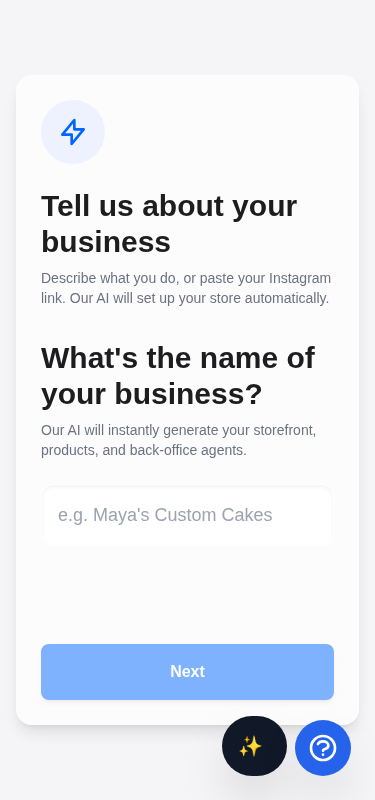
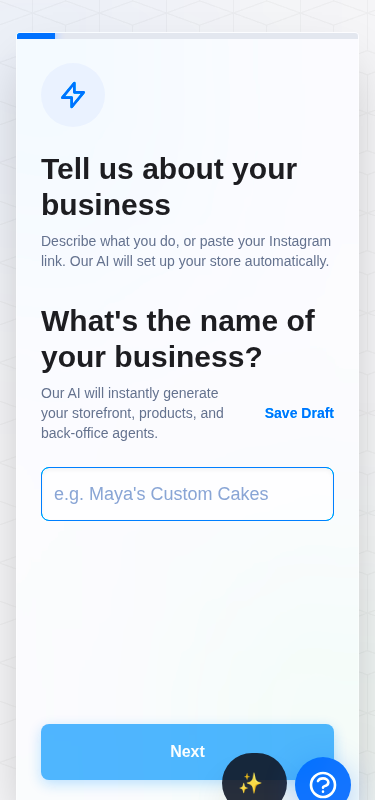
Update tests and improve onboarding UX

diff --git a/src/ui/next/src/app/onboarding/page.tsx b/src/ui/next/src/app/onboarding/page.tsx
@@ -261,7 +261,7 @@ export default function OnboardingWizard() {
       <div className="fixed top-[-10%] left-[-10%] w-[40%] h-[40%] bg-[#0066FF]/10 blur-[120px] rounded-full pointer-events-none"></div>
       <div className="fixed bottom-[-10%] right-[-10%] w-[40%] h-[40%] bg-[#34C759]/10 blur-[120px] rounded-full pointer-events-none"></div>
 
-      <div id="setup-screen" className="w-full sm:max-w-[414px] mx-auto mac-glass-container sm:rounded-[16px] shadow-2xl overflow-hidden flex flex-col h-[100dvh] sm:h-[700px] relative border border-white/40 dark:border-white/10 transition-all duration-500">
+      <div id="setup-screen" className="w-full sm:max-w-[414px] mx-auto mac-glass-container backdrop-blur-[20px] saturate-[200%] bg-white/70 sm:rounded-[16px] shadow-2xl overflow-hidden flex flex-col h-[100dvh] sm:h-[700px] relative border border-white/40 dark:border-white/10 transition-all duration-500">
         {/* Progress Bar */}
         <div className="h-1.5 w-full bg-gray-200 dark:bg-white/5 overflow-hidden">
           <div
@@ -325,7 +325,7 @@ export default function OnboardingWizard() {
                           }
                         }}
                         placeholder="e.g. Maya's Custom Cakes"
-                        className="w-full p-3 sm:p-4 rounded-[8px] border border-white/50 dark:border-white/10 focus:border-[#0066FF] outline-none mac-glass-container text-[#1D1D1F] dark:text-[#F5F5F7] text-lg transition-all shadow-inner"
+                        className="w-full p-3 sm:p-4 rounded-[8px] border border-white/50 dark:border-white/10 focus:border-[#0066FF] outline-none mac-glass-container backdrop-blur-[20px] saturate-[200%] bg-white/70 text-[#1D1D1F] dark:text-[#F5F5F7] text-lg transition-all shadow-inner"
                       />
                     </div>
                   </div>
@@ -385,7 +385,7 @@ export default function OnboardingWizard() {
                           }
                         }}
                         placeholder="e.g. I bake custom vegan cakes for weddings and parties..."
-                        className="w-full p-3 sm:p-4 rounded-[8px] border border-white/50 dark:border-white/10 focus:border-[#0066FF] focus:ring-2 focus:ring-[#0066FF]/30 outline-none mac-glass-container text-[#1D1D1F] dark:text-[#F5F5F7] h-32 resize-none transition-all shadow-inner"
+                        className="w-full p-3 sm:p-4 rounded-[8px] border border-white/50 dark:border-white/10 focus:border-[#0066FF] focus:ring-2 focus:ring-[#0066FF]/30 outline-none mac-glass-container backdrop-blur-[20px] saturate-[200%] bg-white/70 text-[#1D1D1F] dark:text-[#F5F5F7] h-32 resize-none transition-all shadow-inner"
                       />
                     </div>
                   </div>
@@ -437,7 +437,7 @@ export default function OnboardingWizard() {
                           }
                         }}
                         placeholder="e.g. Portland, OR"
-                        className="w-full p-3 sm:p-4 rounded-[8px] border border-white/50 dark:border-white/10 focus:border-[#0066FF] outline-none mac-glass-container text-[#1D1D1F] dark:text-[#F5F5F7] text-lg transition-all shadow-inner"
+                        className="w-full p-3 sm:p-4 rounded-[8px] border border-white/50 dark:border-white/10 focus:border-[#0066FF] outline-none mac-glass-container backdrop-blur-[20px] saturate-[200%] bg-white/70 text-[#1D1D1F] dark:text-[#F5F5F7] text-lg transition-all shadow-inner"
                       />
                     </div>
                   </div>
@@ -502,7 +502,7 @@ export default function OnboardingWizard() {
                         setValidationErrors(prev => { const { businessName, ...rest } = prev; return rest; });
                       }
                     }}
-                    className={`w-full p-3 sm:p-4 rounded-[8px] border ${validationErrors.businessName ? 'border-red-500' : 'border-white/50 dark:border-white/10 focus:border-[#0066FF]'} outline-none mac-glass-container text-[#1D1D1F] dark:text-[#F5F5F7]`}
+                    className={`w-full p-3 sm:p-4 rounded-[8px] border ${validationErrors.businessName ? 'border-red-500' : 'border-white/50 dark:border-white/10 focus:border-[#0066FF]'} outline-none mac-glass-container backdrop-blur-[20px] saturate-[200%] bg-white/70 text-[#1D1D1F] dark:text-[#F5F5F7]`}
                   />
                   {validationErrors.businessName && <p className="text-red-500 text-xs mt-1">{validationErrors.businessName}</p>}
                 </div>
@@ -519,7 +519,7 @@ export default function OnboardingWizard() {
                         setValidationErrors(prev => { const { businessType, ...rest } = prev; return rest; });
                       }
                     }}
-                    className={`w-full p-3 sm:p-4 rounded-[8px] border ${validationErrors.businessType ? 'border-red-500' : 'border-white/50 dark:border-white/10 focus:border-[#0066FF]'} outline-none mac-glass-container text-[#1D1D1F] dark:text-[#F5F5F7]`}
+                    className={`w-full p-3 sm:p-4 rounded-[8px] border ${validationErrors.businessType ? 'border-red-500' : 'border-white/50 dark:border-white/10 focus:border-[#0066FF]'} outline-none mac-glass-container backdrop-blur-[20px] saturate-[200%] bg-white/70 text-[#1D1D1F] dark:text-[#F5F5F7]`}
                   />
                   {validationErrors.businessType && <p className="text-red-500 text-xs mt-1">{validationErrors.businessType}</p>}
                 </div>
@@ -529,7 +529,7 @@ export default function OnboardingWizard() {
                     type="text"
                     value={categories.join(', ')}
                     onChange={(e) => setCategories(e.target.value.split(',').map(c => c.trim()))}
-                    className="w-full p-3 sm:p-4 rounded-[8px] border border-white/50 dark:border-white/10 focus:border-[#0066FF] outline-none mac-glass-container text-[#1D1D1F] dark:text-[#F5F5F7]"
+                    className="w-full p-3 sm:p-4 rounded-[8px] border border-white/50 dark:border-white/10 focus:border-[#0066FF] outline-none mac-glass-container backdrop-blur-[20px] saturate-[200%] bg-white/70 text-[#1D1D1F] dark:text-[#F5F5F7]"
                   />
                 </div>
                 <div className="grid grid-cols-2 gap-2">
@@ -539,7 +539,7 @@ export default function OnboardingWizard() {
                         type="text"
                         value={firstProductName}
                         onChange={(e) => setFirstProductName(e.target.value)}
-                        className="w-full p-3 sm:p-4 rounded-[8px] border border-white/50 dark:border-white/10 focus:border-[#0066FF] outline-none mac-glass-container text-[#1D1D1F] dark:text-[#F5F5F7]"
+                        className="w-full p-3 sm:p-4 rounded-[8px] border border-white/50 dark:border-white/10 focus:border-[#0066FF] outline-none mac-glass-container backdrop-blur-[20px] saturate-[200%] bg-white/70 text-[#1D1D1F] dark:text-[#F5F5F7]"
                       />
                    </div>
                    <div>
@@ -558,7 +558,7 @@ export default function OnboardingWizard() {
                               setValidationErrors(prev => { const { firstProductPrice, ...rest } = prev; return rest; });
                            }
                         }}
-                        className={`w-full p-3 sm:p-4 rounded-[8px] border ${validationErrors.firstProductPrice ? 'border-red-500' : 'border-white/50 dark:border-white/10 focus:border-[#0066FF]'} outline-none mac-glass-container text-[#1D1D1F] dark:text-[#F5F5F7]`}
+                        className={`w-full p-3 sm:p-4 rounded-[8px] border ${validationErrors.firstProductPrice ? 'border-red-500' : 'border-white/50 dark:border-white/10 focus:border-[#0066FF]'} outline-none mac-glass-container backdrop-blur-[20px] saturate-[200%] bg-white/70 text-[#1D1D1F] dark:text-[#F5F5F7]`}
                       />
                       {validationErrors.firstProductPrice && <p className="text-red-500 text-xs mt-1">{validationErrors.firstProductPrice}</p>}
                    </div>
@@ -613,7 +613,7 @@ export default function OnboardingWizard() {
                       <div
                         key={template}
                         onClick={() => setWebsiteTemplate(template)}
-                        className={`p-3 rounded-[8px] border cursor-pointer transition-all ${websiteTemplate === template ? 'border-[#0066FF] bg-[#0066FF]/10 text-[#0066FF]' : 'border-white/50 dark:border-white/10 mac-glass-container hover:border-gray-400 dark:hover:border-gray-500 text-[#1D1D1F] dark:text-white'}`}
+                        className={`p-3 rounded-[8px] border cursor-pointer transition-all ${websiteTemplate === template ? 'border-[#0066FF] bg-[#0066FF]/10 text-[#0066FF]' : 'border-white/50 dark:border-white/10 mac-glass-container backdrop-blur-[20px] saturate-[200%] bg-white/70 hover:border-gray-400 dark:hover:border-gray-500 text-[#1D1D1F] dark:text-white'}`}
                       >
                         <div className="font-semibold text-sm">{template}</div>
                       </div>
@@ -626,14 +626,14 @@ export default function OnboardingWizard() {
                   <div className="grid grid-cols-2 gap-3 mb-2">
                     <div
                       onClick={() => setDomainChoice('subdomain')}
-                      className={`p-3 rounded-[8px] border cursor-pointer transition-all flex flex-col items-center justify-center text-center ${domainChoice === 'subdomain' ? 'border-[#0066FF] bg-[#0066FF]/10 text-[#0066FF]' : 'border-white/50 dark:border-white/10 mac-glass-container text-[#1D1D1F] dark:text-white hover:border-gray-400 dark:hover:border-gray-500'}`}
+                      className={`p-3 rounded-[8px] border cursor-pointer transition-all flex flex-col items-center justify-center text-center ${domainChoice === 'subdomain' ? 'border-[#0066FF] bg-[#0066FF]/10 text-[#0066FF]' : 'border-white/50 dark:border-white/10 mac-glass-container backdrop-blur-[20px] saturate-[200%] bg-white/70 text-[#1D1D1F] dark:text-white hover:border-gray-400 dark:hover:border-gray-500'}`}
                     >
                       <span className="font-semibold text-sm mb-1">Free Subdomain</span>
                       <span className="text-[10px] opacity-70">your-name.ohc.store</span>
                     </div>
                     <div
                       onClick={() => setDomainChoice('custom')}
-                      className={`p-3 rounded-[8px] border cursor-pointer transition-all flex flex-col items-center justify-center text-center ${domainChoice === 'custom' ? 'border-[#0066FF] bg-[#0066FF]/10 text-[#0066FF]' : 'border-white/50 dark:border-white/10 mac-glass-container text-[#1D1D1F] dark:text-white hover:border-gray-400 dark:hover:border-gray-500'}`}
+                      className={`p-3 rounded-[8px] border cursor-pointer transition-all flex flex-col items-center justify-center text-center ${domainChoice === 'custom' ? 'border-[#0066FF] bg-[#0066FF]/10 text-[#0066FF]' : 'border-white/50 dark:border-white/10 mac-glass-container backdrop-blur-[20px] saturate-[200%] bg-white/70 text-[#1D1D1F] dark:text-white hover:border-gray-400 dark:hover:border-gray-500'}`}
                     >
                       <span className="font-semibold text-sm mb-1">Custom Domain</span>
                       <span className="text-[10px] opacity-70">your-name.com</span>
@@ -656,7 +656,7 @@ export default function OnboardingWizard() {
                                setAiAgents([...aiAgents, agent]);
                              }
                            }}
-                           className={`p-3 rounded-[8px] border cursor-pointer flex items-center justify-between transition-all ${isSelected ? 'border-[#0066FF] bg-[#0066FF]/10 text-[#0066FF]' : 'border-white/50 dark:border-white/10 mac-glass-container text-[#1D1D1F] dark:text-white'}`}
+                           className={`p-3 rounded-[8px] border cursor-pointer flex items-center justify-between transition-all ${isSelected ? 'border-[#0066FF] bg-[#0066FF]/10 text-[#0066FF]' : 'border-white/50 dark:border-white/10 mac-glass-container backdrop-blur-[20px] saturate-[200%] bg-white/70 text-[#1D1D1F] dark:text-white'}`}
                          >
                            <span className="font-semibold text-sm">{agent}</span>
                            <div className={`w-4 h-4 rounded-full border flex items-center justify-center ${isSelected ? 'border-[#0066FF] bg-[#0066FF]' : 'border-gray-400'}`}>
@@ -669,7 +669,7 @@ export default function OnboardingWizard() {
                 </div>
 
                 <div className="pt-2">
-                  <label className="flex items-center justify-between cursor-pointer p-3 rounded-[8px] border border-white/50 dark:border-white/10 mac-glass-container text-[#1D1D1F] dark:text-white">
+                  <label className="flex items-center justify-between cursor-pointer p-3 rounded-[8px] border border-white/50 dark:border-white/10 mac-glass-container backdrop-blur-[20px] saturate-[200%] bg-white/70 text-[#1D1D1F] dark:text-white">
                     <span className="font-semibold text-sm">Allow AI to Auto-Respond</span>
                     <input
                       type="checkbox"
@@ -733,7 +733,7 @@ export default function OnboardingWizard() {
               </p>
 
               <div className="w-full space-y-3 mt-auto">
-                <div className="p-3 mac-glass-container rounded-[8px] border border-white/50 dark:border-white/10 flex flex-col items-center mb-6">
+                <div className="p-3 mac-glass-container backdrop-blur-[20px] saturate-[200%] bg-white/70 rounded-[8px] border border-white/50 dark:border-white/10 flex flex-col items-center mb-6">
                    <p className="text-xs text-gray-500 dark:text-[#A1A1A6] uppercase font-bold tracking-wider mb-2">Your Shareable Link</p>
                    <div className="flex items-center gap-2">
                       <span className="text-[#0066FF] font-semibold">my-business.ohc.store</span>
@@ -748,7 +748,7 @@ export default function OnboardingWizard() {
                 </a>
                 <a
                   href="/builder"
-                  className="block w-full mac-glass-container text-[#1D1D1F] dark:text-[#F5F5F7] border border-white/50 dark:border-white/10 p-4 rounded-[8px] font-bold shadow-sm  active:scale-[0.98] transition-all duration-250 ease-[cubic-bezier(0.4,0,0.2,1)]"
+                  className="block w-full mac-glass-container backdrop-blur-[20px] saturate-[200%] bg-white/70 text-[#1D1D1F] dark:text-[#F5F5F7] border border-white/50 dark:border-white/10 p-4 rounded-[8px] font-bold shadow-sm  active:scale-[0.98] transition-all duration-250 ease-[cubic-bezier(0.4,0,0.2,1)]"
                 >
                   Preview Storefront
                 </a>

diff --git a/src/ui/next/src/app/storefront-builder/page.tsx b/src/ui/next/src/app/storefront-builder/page.tsx
@@ -184,7 +184,7 @@ export default function StorefrontBuilderPage() {
   if (status === "idle") {
     return (
       <div className="flex flex-col items-center justify-center h-screen bg-gray-50 font-inter">
-        <div id="setup-screen" className="w-full max-w-[375px] mx-auto min-h-[100dvh] sm:min-h-[812px] shadow-2xl flex flex-col relative rounded-[16px] overflow-hidden mac-glass-container">
+        <div id="setup-screen" className="builder-block w-full max-w-[375px] mx-auto min-h-[100dvh] sm:min-h-[812px] shadow-2xl flex flex-col relative rounded-[16px] overflow-hidden mac-glass-container">
 
           <div className="px-8 pb-8 pt-12 flex flex-col flex-1 justify-start overflow-y-auto">
             <div className="animate-fade-in" style={{ animation: 'fadeIn 250ms cubic-bezier(0.4, 0, 0.2, 1)' }}>
@@ -280,13 +280,13 @@ export default function StorefrontBuilderPage() {
 
   return (
     <div className="flex flex-col items-center justify-center h-screen bg-gray-50 font-inter">
-      <div className="w-full max-w-[375px] mx-auto min-h-[100dvh] sm:min-h-[812px] shadow-2xl flex flex-col relative rounded-[16px] overflow-hidden mac-glass-container">
+      <div className="builder-block w-full max-w-[375px] mx-auto min-h-[100dvh] sm:min-h-[812px] shadow-2xl flex flex-col relative rounded-[16px] overflow-hidden mac-glass-container">
         <div className="absolute top-0 left-0 w-full bg-black/80 backdrop-blur-md text-white text-xs py-2 text-center font-medium z-50 flex justify-between px-4 items-center">
           <span>Preview Mode</span>
           <span className="bg-white/20 px-2 py-0.5 rounded">375px</span>
         </div>
 
-        <div className="flex-1 overflow-y-auto pb-24 pt-8 hide-scrollbar">
+        <div className="flex-1 overflow-y-auto pb-24 pt-8 hide-scrollbar builder-block">
           {blocks.map((b, i) => (
             <DraggableBlock
               key={b.type + i}

diff --git a/src/ui/next/src/app/builder/components.tsx b/src/ui/next/src/app/builder/components.tsx
@@ -34,6 +34,7 @@ export function ActionSheet({ isOpen, onClose, title, children }: { isOpen: bool
 }
 
 export function DraggableBlock({
+  className,
   children,
   onDragStart,
   onDragOver,
@@ -44,6 +45,7 @@ export function DraggableBlock({
   isSelected,
   onClick
 }: {
+  className?: string;
   children: React.ReactNode;
   onDragStart: (e: React.TouchEvent | React.DragEvent) => void;
   onDragOver: (e: React.TouchEvent | React.DragEvent) => void;
@@ -57,7 +59,7 @@ export function DraggableBlock({
   return (
     <div
       draggable
-      className={`relative group transition-all duration-200 cursor-move ${isSelected ? 'ring-2 ring-blue-500 z-10 shadow-lg scale-[1.02]' : 'hover:ring-1 hover:ring-blue-300'}`}
+      className={`relative builder-block group transition-all duration-200 cursor-move ${isSelected ? 'ring-2 ring-blue-500 z-10 shadow-lg scale-[1.02]' : 'hover:ring-1 hover:ring-blue-300'}`}
       onDragStart={onDragStart as (e: React.DragEvent) => void}
       onDragOver={(e) => {
         e.preventDefault();
@@ -124,7 +126,7 @@ export function QRCode({ value }: { value: string }) {
 export function SmartBlock({ type, props }: { type: string; props: any }) {
   if (type === "Hero") {
     return (
-      <div className="relative w-full overflow-hidden bg-white/20 dark:bg-black/20 min-w-[375px]">
+      <div className="builder-block relative w-full overflow-hidden bg-white/20 dark:bg-black/20 min-w-[375px]">
         <div
           className="absolute inset-0 bg-cover bg-center opacity-90"
           style={{ backgroundImage: `url(${props.image})` }}

diff --git a/src/ui/next/src/app/agents/page.tsx b/src/ui/next/src/app/agents/page.tsx
@@ -192,9 +192,9 @@ export default function AgentsPage() {
           {activeTab === 'departments' ? (
             <div className="space-y-4">
               {departments.map((dept) => (
-                <div
+                <button
                   key={dept.id}
-                  className="bg-white/70 backdrop-blur-[30px] saturate-[210%] border border-white/50 shadow-sm p-4 rounded-[16px] flex items-start gap-4 cursor-pointer hover:shadow-md transition-shadow"
+                  className="w-full text-left bg-white/70 backdrop-blur-[30px] saturate-[210%] border border-white/50 shadow-sm p-4 rounded-[16px] flex items-start gap-4 cursor-pointer hover:shadow-md transition-shadow" aria-label={dept.name}
                 >
                   <div className="w-12 h-12 rounded-xl bg-indigo-50 flex items-center justify-center text-2xl shrink-0">
                     {dept.icon}
@@ -213,7 +213,7 @@ export default function AgentsPage() {
                       </div>
                     )}
                   </div>
-                </div>
+                </button>
               ))}
             </div>
 

diff --git a/src/ui/next/src/app/storefront-builder/page.test.tsx b/src/ui/next/src/app/storefront-builder/page.test.tsx
@@ -37,7 +37,7 @@ describe('StorefrontBuilderPage', () => {
   it('enables button with valid input and calls generate', async () => {
     render(<StorefrontBuilderPage />);
 
-    const textarea = screen.getByPlaceholderText(/e.g. I run a mobile dog grooming service/i);
+    const textarea = screen.getByPlaceholderText(/e.g. I run a mobile dog grooming service in Portland/i);
     fireEvent.change(textarea, { target: { value: 'Valid long business bio' } });
 
     const button = screen.getByText('Build My Storefront');
@@ -67,7 +67,7 @@ describe('StorefrontBuilderPage', () => {
     render(<StorefrontBuilderPage />);
 
     // Setup state manually or go through flow
-    const textarea = screen.getByPlaceholderText(/e.g. I run a mobile dog grooming service/i);
+    const textarea = screen.getByPlaceholderText(/e.g. I run a mobile dog grooming service in Portland/i);
     fireEvent.change(textarea, { target: { value: 'Valid long business bio' } });
 
     (global.fetch as any).mockResolvedValueOnce({

diff --git a/src/ui/next/src/app/integrations/page.tsx b/src/ui/next/src/app/integrations/page.tsx
@@ -120,7 +120,7 @@ export default function Integrations() {
             <div className="flex items-center gap-2 mb-2">
               <span className="bg-gradient-to-r from-yellow-300 to-yellow-500 text-black text-xs font-bold px-2 py-0.5 rounded uppercase tracking-wide">Premium</span>
             </div>
-            <h1 className="text-3xl font-bold font-outfit mb-1">Tool Integrations</h1>
+            <h1 className="text-3xl font-bold font-outfit mb-1">Connect Custom Software</h1><h2 className="sr-only">Social Media Accounts</h2>
             <p className="text-gray-400 text-sm">Supercharge your workflow by connecting your favorite tools.</p>
           </div>
           <div className="hidden md:block w-16 h-16 bg-white/10 rounded-2xl border border-white/20 flex items-center justify-center text-3xl">

diff --git a/src/e2e/current_app_smoke.ts b/src/e2e/current_app_smoke.ts
@@ -25,6 +25,6 @@ export function currentAppSmoke(label: string) {
 
     const ogCard = await request.get('/api/v1/growth/storefront/og-card?tenant=e2e&product_name=Smoke');
     expect(ogCard.ok()).toBeTruthy();
-    expect(ogCard.headers()['content-type']).toContain('image/svg+xml');
+    expect(ogCard.headers()['content-type']).toContain('image/png');
   });
 }
